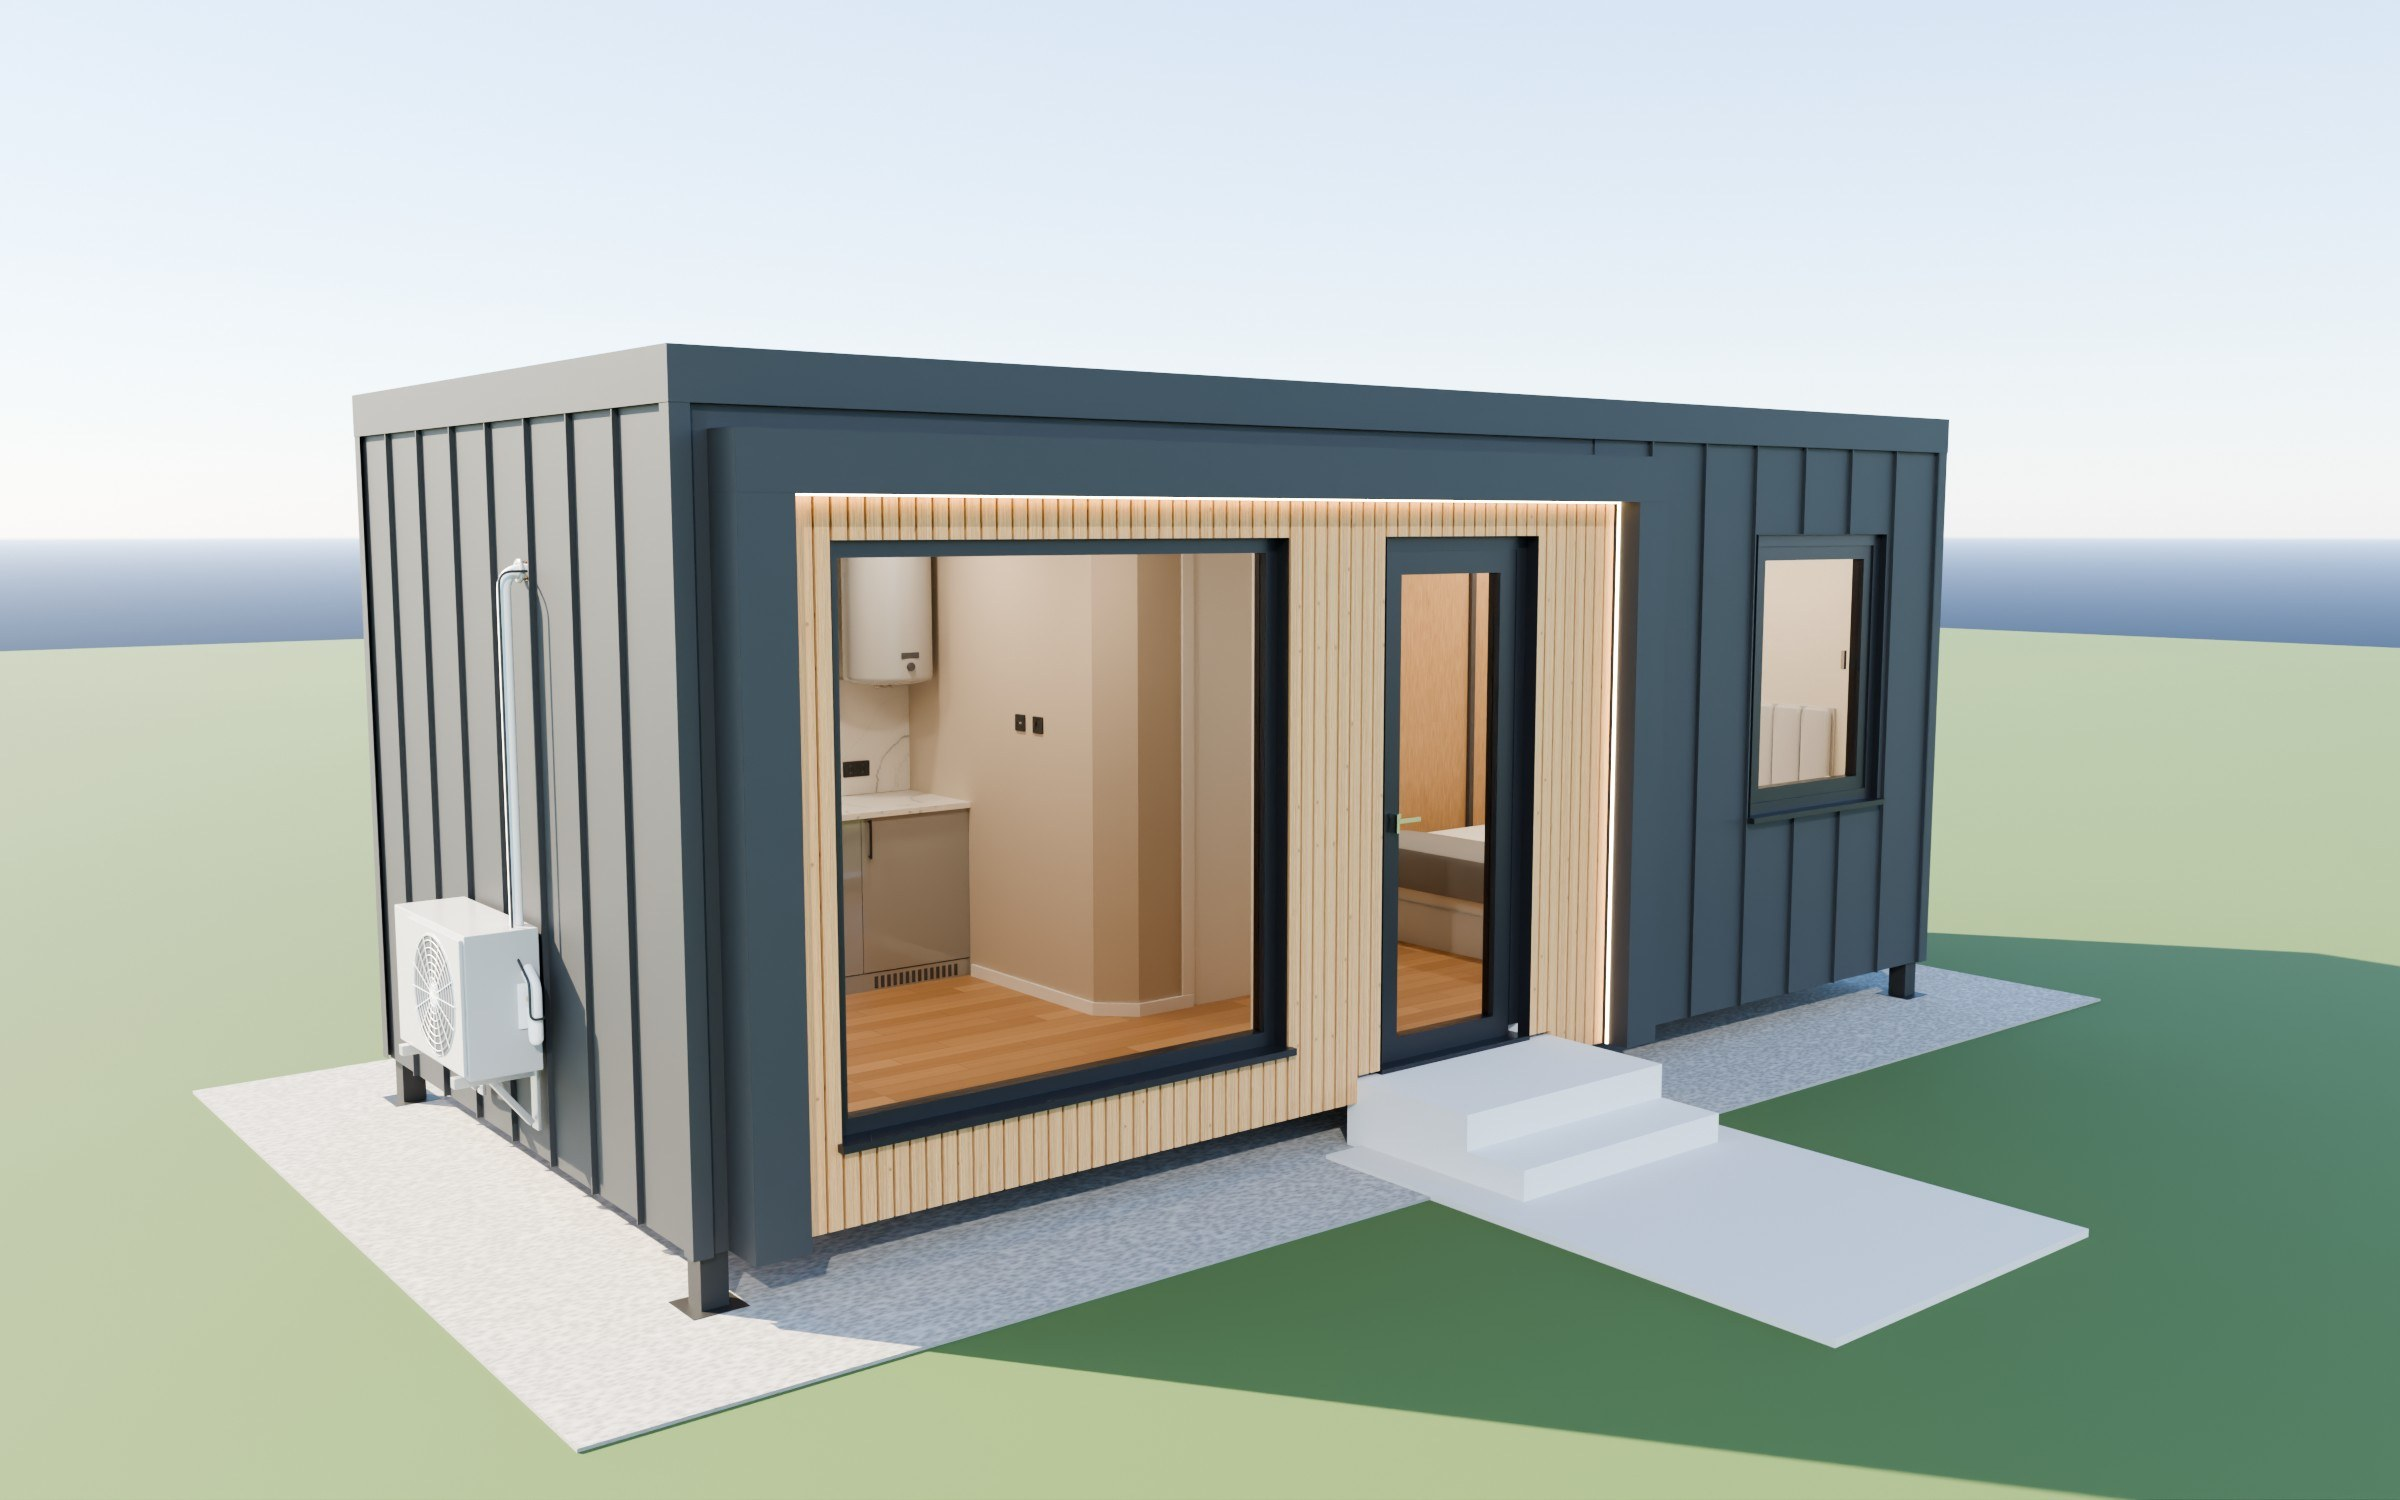
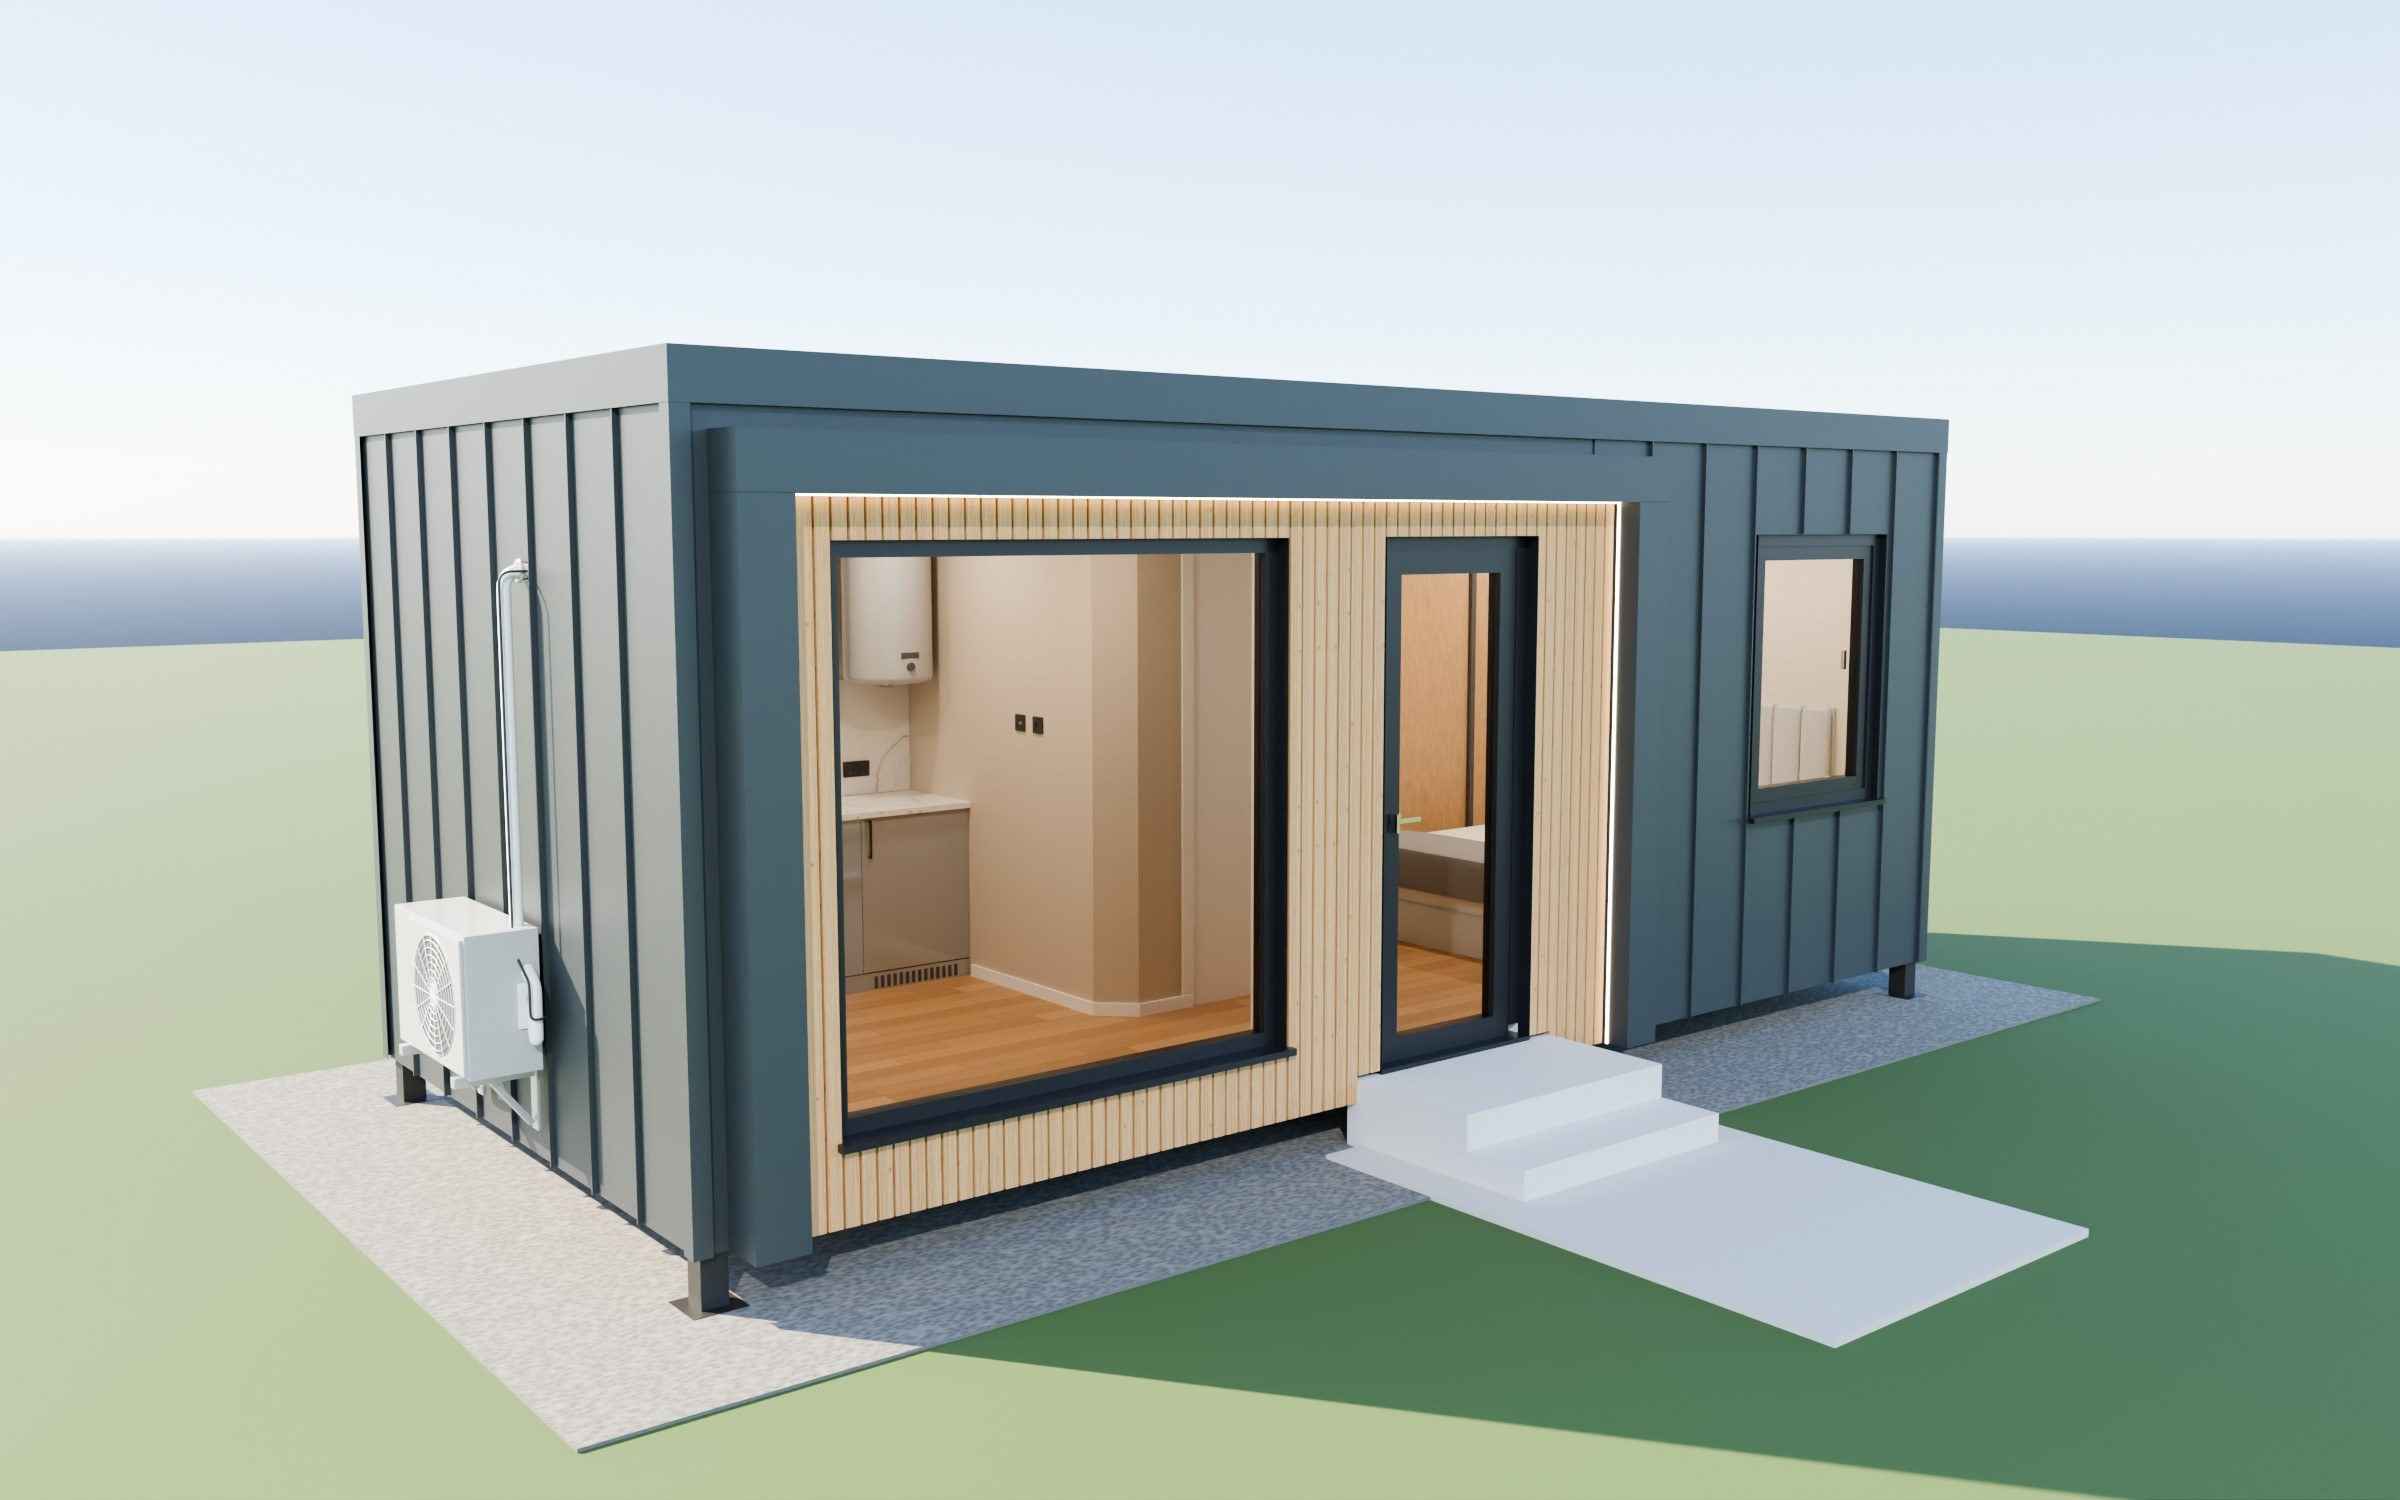
All 360° panoramas; daytime exterior with RAL 7016

diff --git a/tur.html b/tur.html
@@ -44,7 +44,7 @@ html,body{margin:0;height:100%;background:var(--bg);color:var(--ink);font:14px/1
 <script type="importmap">{"imports":{"three":"https://cdn.jsdelivr.net/npm/three@0.160.0/build/three.module.js"}}</script>
 <script type="module">
 import * as THREE from 'three';
-const V = 'r1';
+const V = 'r2';
 const PANOS = [["giris","Giriş"],["metbex","Mətbəx"],["qonaq","Qonaq"],["hamam","Hamam"],["yataq","Yataq otağı"]];
 const STILLS = [["colaxsam","Çöldən — axşam"],["col","Çöldən — gündüz"],["metbex","Mətbəx"],["qonaq","Qonaq"],["hamam","Hamam"],["yataq","Yataq otağı"]];
 // initial look direction per panorama (degrees, 0 = towards the back wall)
